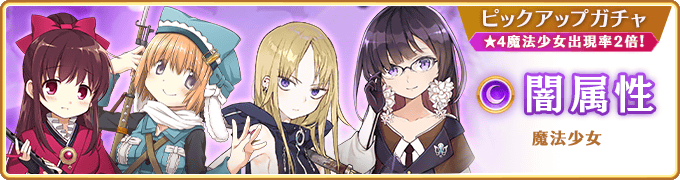
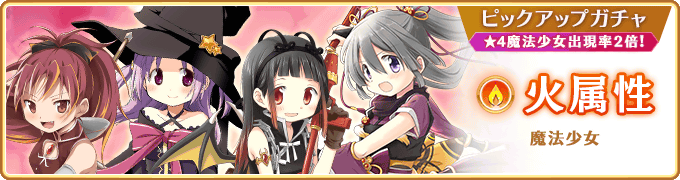
Kimochi and Kyoko Gacha updates

diff --git a/js/data.js b/js/data.js
@@ -7,49 +7,49 @@ var timerData = [
 	{
         "type": "WeekendBoss",
         "title": [
-			"Kimochi Battle ～Beatueous Pearl Eye～",
-            "『キモチ戦 麗しい真珠の眼』"
+			"Kimochi Battle ～Unmoving Garnet Pinky～",
+            "『キモチ戦 止まるガーネットの小指』"
         ],
         "image": [
-            "imgs/battle/kimochi00.png"
+            "imgs/kimochi/kimochi00.png"
         ],
         "column": 0,
-        "priority": 1,
+        "priority": 0,
         "timers": [
 			{
 				name: "Part 1 - Day 1",
-                start: "oct 16 2023, 17:00",
-                end: "oct 17 2023, 15:59"
+                start: "nov 15 2023, 17:00",
+                end: "nov 16 2023, 15:59"
 			},
 			{
 				name: "Part 1 - Day 2",
-				start: "oct 17 2023, 16:00",
-				end: "oct 18 2023, 15:59"
+				start: "nov 16 2023, 16:00",
+				end: "nov 17 2023, 15:59"
 			},
 			{
 				name: "Maintenance",
-				start: "oct 18 2023, 16:00",
-				end: "oct 18 2023, 16:59"
+				start: "nov 17 2023, 16:00",
+				end: "nov 17 2023, 16:59"
 			},
 			{
 				name: "Part 2 - Day 1",
-				start: "oct 18 2023, 17:00",
-				end: "oct 19 2023, 15:59"
+				start: "nov 17 2023, 17:00",
+				end: "nov 18 2023, 15:59"
 			},
 			{
 				name: "Part 2 - Day 2",
-				start: "oct 19 2023, 16:00",
-				end: "oct 20 2023, 15:59"
+				start: "nov 18 2023, 16:00",
+				end: "nov 19 2023, 15:59"
 			},
 			{
 				name: "Part 2 - Day 3",
-				start: "oct 20 2023, 16:00",
-				end: "oct 21 2023, 15:59"
+				start: "nov 19 2023, 16:00",
+				end: "nov 20 2023, 15:59"
 			}, 
             {
-                "name": "Light Attribute",
-                "start": "oct 16 2023, 17:00",
-                "end": "oct 21 2023, 15:59",
+                "name": "Forest Attribute",
+                "start": "nov 15 2023, 17:00",
+                "end": "nov 20 2023, 15:59",
                 "extraPriority": 1,
 				"type": "normal",
 				markers:
@@ -164,8 +164,8 @@ var timerData = [
         "timers": [
 			{
 				name: "Tentative Schedule",
-				start: "nov 20 2023, 12:00",
-				end: "nov 25 2023, 18:00",
+				start: "nov 20 2022, 12:00",
+				end: "nov 25 2022, 18:00",
 				markers:
 				[{title: "Madoka Time Slot", time: "sep 10 2023, 16:00", type: "star"}]
 			}
@@ -194,7 +194,7 @@ var timerData = [
 	{
         "type": "Event",
         "title": [
-            "Scene0 Release Film.3 & Film.4",
+            "Scene0 Film.3 & Film.4 Releases",
 			"『魔法少女まどか☆マギカ scene0』Film.3およびFilm.4"
         ],
         "image": [
@@ -205,9 +205,11 @@ var timerData = [
         "priority": 1,
         "timers": [
 			{
-				name: "Story Update",
+				name: "Limited Dailies",
 				start: "nov 6 2023, 17:00",
-				end: "nov 6 2023, 23:59",
+				end: "nov 24 2023, 23:59",
+				markers:
+				[{title: "Film.4 DAY.15~32 Battle 4", time: "nov 15 2023, 17:00", type: "star"}]
 			},
 		]
 	},
@@ -547,19 +549,19 @@ var timerData = [
 {
 		type: "Other",
 		title: [
-		" Dark Attribute Magical Girl Training Pack",
-		"『育成パック販売予告』"
+		" Fire Attribute Magical Girl Training Pack",
+		"『火属性魔法少女育成パック』"
 		],
 		image: [
-            "imgs/kimochi/pack00.png",
+            "imgs/shops/fire00.png",
         ],
 		column: 2,
 		priority: 10,
 		timers: [
 		{
 			name: "Sales period",
-			start: "oct 16 2023, 17:00",
-			end: "oct 23 2023, 14:59",
+			start: "nov 15 2023, 17:00",
+			end: "nov 22 2023, 14:59",
 		}
 		]
 	},
@@ -626,12 +628,12 @@ var timerData = [
 			"imgs/maintenance.png"
 		],
         column: 0,
-        priority: 2,
+        priority: 1,
         timers: [
             {
-                name: "",
-				start: "nov 6 2023, 15:00",
-				end: "nov 6 2023, 15:59"
+                name: "App Version 3.1.1 Mandatory Update",
+				start: "nov 15 2023, 15:00",
+				end: "nov 15 2023, 16:59"
 				// extraPriority: 100
             }
         ]
@@ -639,8 +641,8 @@ var timerData = [
 	{
         "type": "Gacha",
         "title": [
-			"Dark Attribute Magical Girl Pickup Gacha",
-            "【闇属性魔法少女 ピックアップガチャ】"
+			"Fire Attribute Magical Girl Pickup Gacha",
+            "【火属性魔法少女 ピックアップガチャ】"
         ],
         "image": [
             "imgs/kimochi/gacha00.png",
@@ -650,8 +652,8 @@ var timerData = [
         "timers": [
             {
                 name: "Pick Up",
-                start: "oct 16 2023, 16:00",
-				end: "oct 23 2023, 14:59",
+                start: "nov 15 2023, 17:00",
+				end: "nov 20 2023, 14:59",
                // extraPriority: 1000
             }
         ]
@@ -659,40 +661,40 @@ var timerData = [
 	{
         "type": "Gacha",
         "title": [
-			"Light Attribute Pick Up Gacha",
-            "『光属性魔法少女 ピックアップガチャ』"
+			"Fire Attribute Paid Guaranteed 4★ Gacha",
+            "『有償限定 火属性★4魔法少女確定ガチャ』"
         ],
         "image": [
-			"imgs/gatcha/kimoga00.png"
+			"imgs/kimochi/fire00.png"
         ],
         "column": 1,
-        "priority": 15,
+        "priority": 3,
         "timers": [
             {
                 name: "",
-                start: "July 10 2023, 17:00",
-				end: "July 17 2023, 14:59",
-                extraPriority: 100,
+                start: "nov 15 2023, 17:00",
+				end: "nov 20 2023, 14:59",
+                // extraPriority: 100,
             }
         ]
     },
 	{
         "type": "Gacha",
         "title": [
-			"【Limited Gacha】Chisato Nishikigi Pickup and Step-up Gacha",
-            "『有償限定 ステップアップ & ピックアップガチャ 錦木千束編』"
+			"【New Limited Gatcha】Kyoko Sakura scene0 ver. Pickup & Step-up Gacha",
+            "『期間限定 佐倉杏子scene0 ver. ステップアップ&ピックアップガチャ』"
         ],
         "image": [
-            "imgs/eventsp/gacha00.png",
-			"imgs/eventsp/gacha0002.png"
+			"imgs/scene-zero/kyoko00.png",
+			"imgs/scene-zero/kyoko01.png"
         ],
         "column": 1,
         "priority": 5,
         "timers": [
             {
-                name: "Licorice Recoil Collab",
-                start: "sep 22 2023, 16:00",
-				end: "oct 8 2023, 23:59",
+                name: "",
+                start: "nov 15 2023, 17:00",
+				end: "nov 20 2023, 14:59",
             }
         ]
     },
